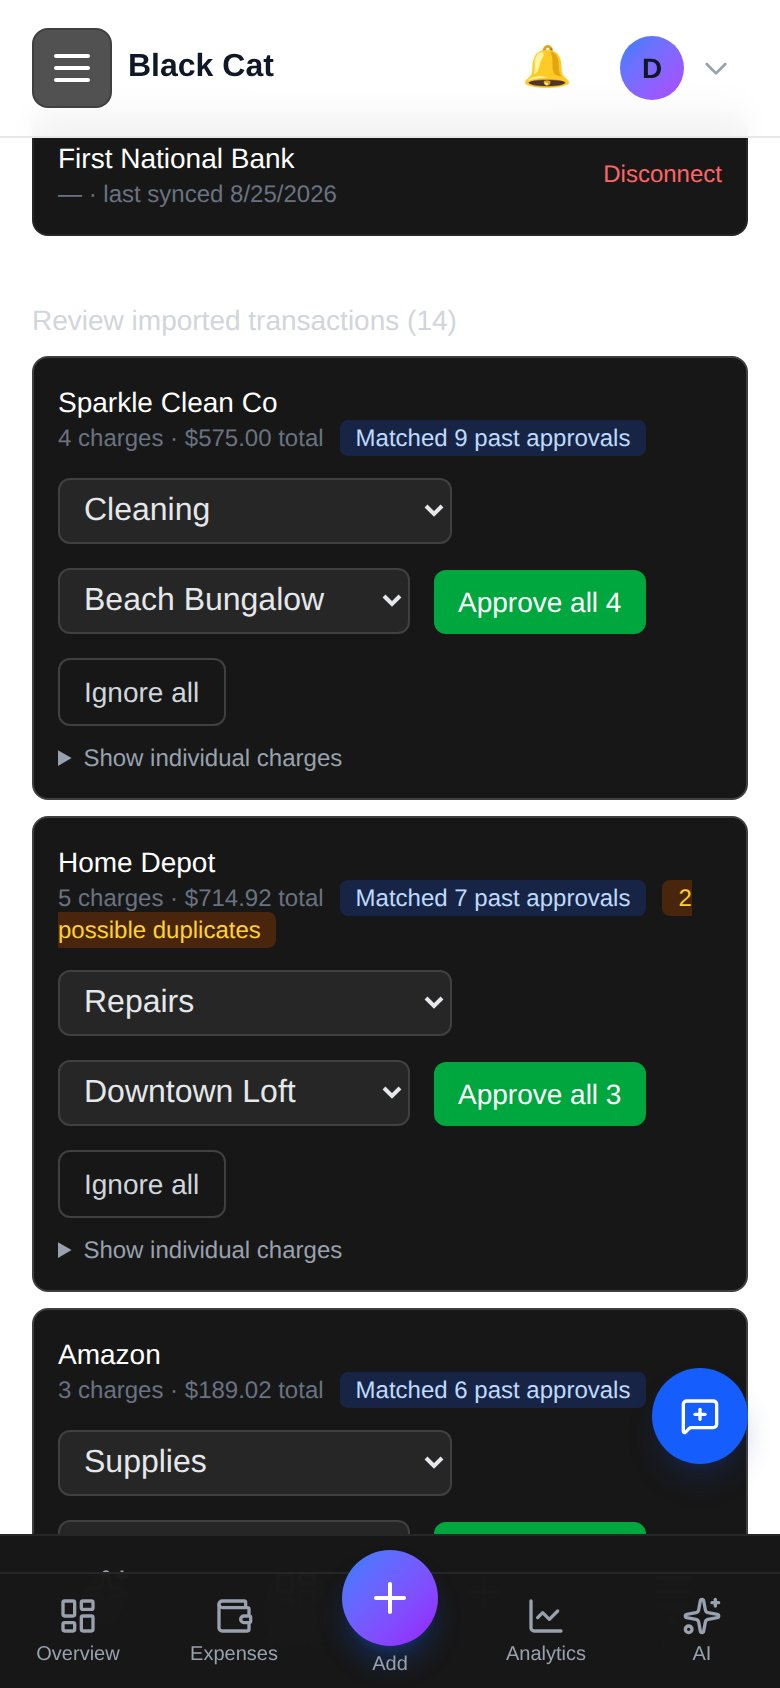
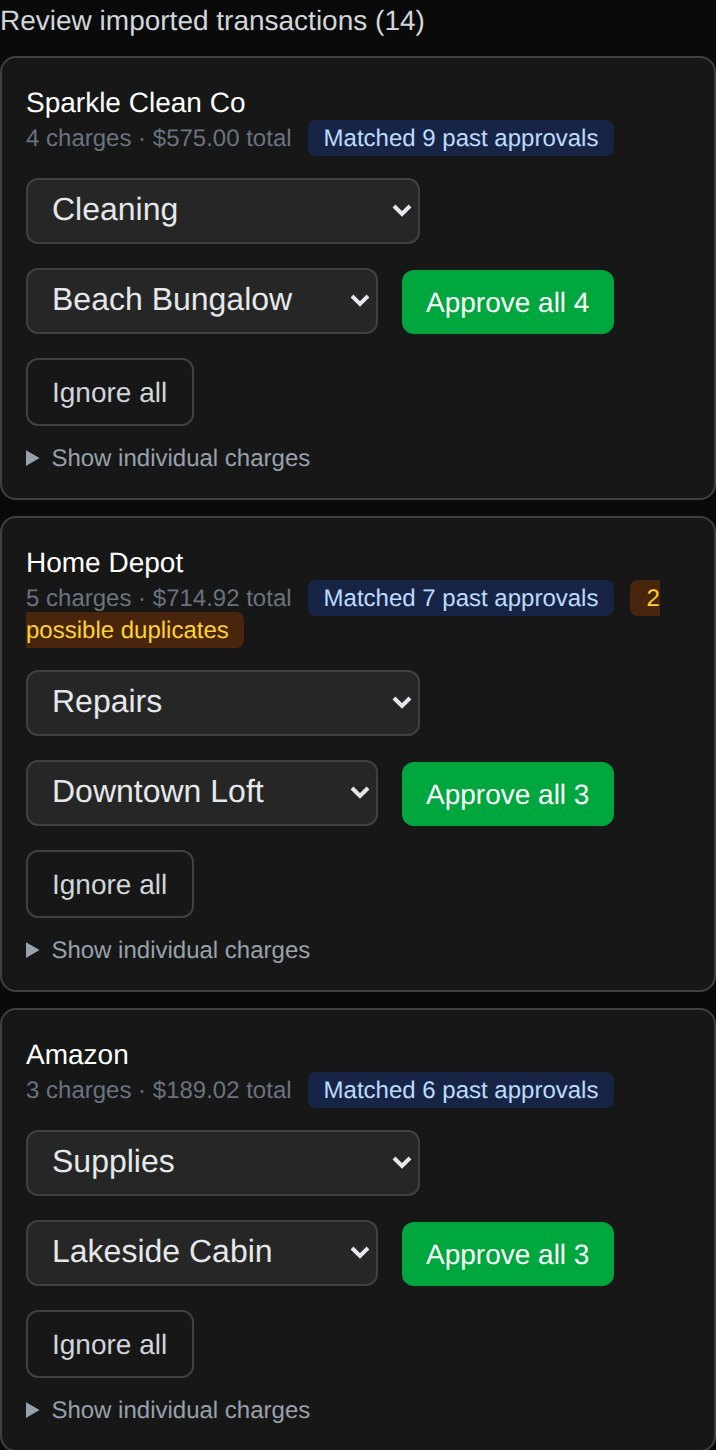
See Inside on phones: content-only captures, trimmed to one screen, faded at the cut (#21)
Sam, on the phone after the previous fix: "Computer is fine phone is
not." The phone captures were full viewports, so each carried the
app's own header bar, a bottom tab bar sliced in half, and the floating
chat button, all nested inside the site's header. Legible, but it read
as a broken page rather than a product shot.

- The phone images are now element captures of just the content: the
  review-transactions block on Bank Sync and the Schedule E generator
  card on Tax & Reports. No app chrome.
- Each is trimmed to roughly one phone screen at a card boundary
  (three merchant groups; the generator through its first four
  "What's included" lines) and the page draws a short fade at the
  bottom edge on phones so the trim reads as deliberate.
- The app paints its dark backdrop as a fixed layer, which the capture
  had stripped along with the header; the ground is dark again.

Desktop is unchanged. Verified at 390 and 1280 widths.

Claude-Session: https://claude.ai/code/session_017x1i612sijkvuTb3A5cZKa

diff --git a/index.html b/index.html
@@ -472,19 +472,25 @@
       <div class="flex flex-col gap-10 max-w-4xl mx-auto">
         <div class="reveal">
           <div class="rounded-2xl border border-neutral-800 bg-neutral-900/60 p-1.5 sm:p-2 shadow-2xl mx-auto max-w-sm sm:max-w-none" style="box-shadow: 0 0 60px rgba(34,197,94,0.05), 0 20px 40px -12px rgba(0,0,0,0.6)">
-            <picture>
-              <source media="(max-width: 639px)" srcset="/images/app-bank-sync-phone.jpg" width="780" height="1688">
-              <img src="/images/app-bank-sync-desktop.jpg" alt="Bank sync review queue grouping repeat merchants with one-click bulk approve and duplicate detection" width="1095" height="650" class="w-full h-auto rounded-xl" loading="lazy" decoding="async">
-            </picture>
+            <div class="relative">
+              <picture>
+                <source media="(max-width: 639px)" srcset="/images/app-bank-sync-phone.jpg" width="716" height="1450">
+                <img src="/images/app-bank-sync-desktop.jpg" alt="Bank sync review queue grouping repeat merchants with one-click bulk approve and duplicate detection" width="1095" height="650" class="w-full h-auto rounded-xl" loading="lazy" decoding="async">
+              </picture>
+              <div class="sm:hidden pointer-events-none absolute inset-x-0 bottom-0 h-20 rounded-b-xl bg-gradient-to-t from-neutral-900 to-transparent" aria-hidden="true"></div>
+            </div>
           </div>
           <p class="text-[11px] text-neutral-600 mt-2 text-center sm:text-left">Repeat merchants collapse into one decision — sample data</p>
         </div>
         <div class="reveal reveal-delay-1">
           <div class="rounded-2xl border border-neutral-800 bg-neutral-900/60 p-1.5 sm:p-2 shadow-2xl mx-auto max-w-sm sm:max-w-none" style="box-shadow: 0 0 60px rgba(34,197,94,0.05), 0 20px 40px -12px rgba(0,0,0,0.6)">
-            <picture>
-              <source media="(max-width: 639px)" srcset="/images/app-tax-reports-phone.jpg" width="780" height="1688">
-              <img src="/images/app-tax-reports-desktop.jpg" alt="Schedule E worksheet generator with per-property breakdown, depreciation, and a 1099 recipient summary" width="1525" height="705" class="w-full h-auto rounded-xl" loading="lazy" decoding="async">
-            </picture>
+            <div class="relative">
+              <picture>
+                <source media="(max-width: 639px)" srcset="/images/app-tax-reports-phone.jpg" width="716" height="1236">
+                <img src="/images/app-tax-reports-desktop.jpg" alt="Schedule E worksheet generator with per-property breakdown, depreciation, and a 1099 recipient summary" width="1525" height="705" class="w-full h-auto rounded-xl" loading="lazy" decoding="async">
+              </picture>
+              <div class="sm:hidden pointer-events-none absolute inset-x-0 bottom-0 h-20 rounded-b-xl bg-gradient-to-t from-neutral-900 to-transparent" aria-hidden="true"></div>
+            </div>
           </div>
           <p class="text-[11px] text-neutral-600 mt-2 text-center sm:text-left">Tax season, pre-assembled — sample data</p>
         </div>
